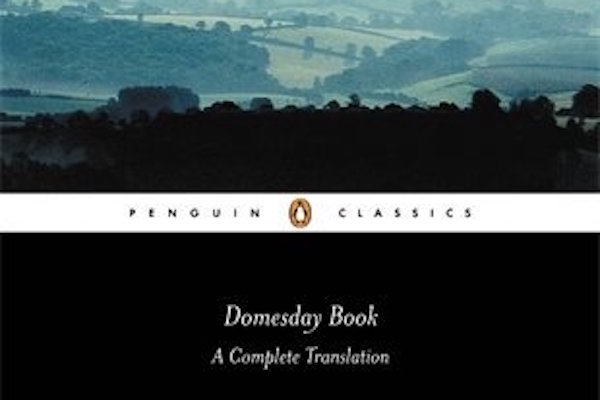
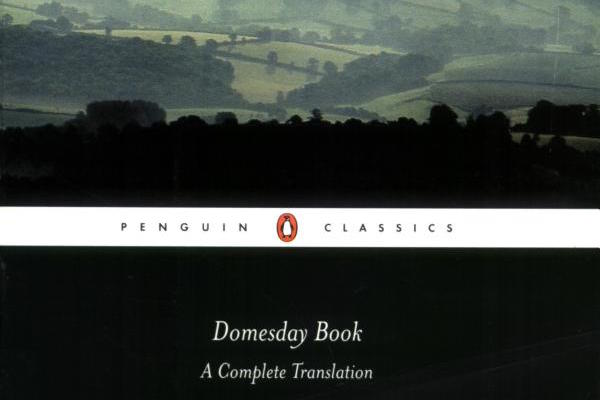
Changes to the promo image and css.

diff --git a/styles/domesday.css b/styles/domesday.css
@@ -51,7 +51,7 @@ html>body #domesday-wrapper #wrapper #banner img {*float:left;}
 #domesday-wrapper #wrapper #primary-content {padding-bottom:12px;}
 /*#domesday-wrapper #wrapper #primary-content ul {clear:left; float:none;  padding: 12px 0 0 11px; margin: 0 40px 20px 40px; }
 #domesday-wrapper #wrapper #primary-content ul li{float:none!important; list-style-position: outside; list-style-type: disc; padding: 12px 8px; width:auto!important;}*/
-#domesday-wrapper #wrapper #primary-content h2 {background:none; font:1.2em/120% Verdana, Arial, Helvetica, sans-serif normal; font-weight: 700; padding:8px 10px 8px 20px;  border-top:#bfbfbf 1px dotted; margin:0;  }
+#domesday-wrapper #wrapper #primary-content h2 {background:none; font:1.2em/120% Verdana, Arial, Helvetica, sans-serif normal; font-weight: normal; padding:8px 10px 8px 20px;  border-top:#bfbfbf 1px dotted; margin:0;  }
 #domesday-wrapper #wrapper #primary-content h2 {margin-top: 0!important; border: none!important; }
 
 /*#wrapper #main-content #left-nav .selected-page a {background-color: #900!important;}*/
@@ -113,7 +113,8 @@ h1 {
 }
 h2 {
     font-family: 'Bitter', serif;
-    font-size: 1.4em;
+    font-size: 1.6em;
+    font-weight: normal;
 }
 
 #primary-content #intro {
@@ -153,7 +154,6 @@ ul.last-item li {
     margin: 0 20px 20px 0;
 }
 #domesday-wrapper #secondary-content .holder .header-no-link {
-    background-color: #e5e5e5;
     padding-top: 1em;
     padding-bottom: 1em;
 }
@@ -169,6 +169,11 @@ ul.last-item li {
     padding-bottom: 1em;
     font-size: 1.1em;
     line-height: 1.6em;
+}
+
+#secondary-content .holder h2 {
+    background: none ;
+    font-weight: normal;
 }
 
 #primary-content .left, #primary-content li {

diff --git a/default.htm b/default.htm
@@ -175,7 +175,7 @@
                         <img src="img/domesday-%20the%20complete%20translation.jpg" alt="domesday-the-complete-translation"/>
                     </div>
                 </a>
-                <p>Buy a complete, authoritative<a href="http://bookshop.nationalarchives.gov.uk/9780141439945/Domesday-Book-%3A-A-Complete-Translation/"
+                <p>Buy a complete, authoritative <a href="http://bookshop.nationalarchives.gov.uk/9780141439945/Domesday-Book-%3A-A-Complete-Translation/"
                        target="_self">translation of Domesday</a>, including a glossary and index of places.</p>
             </div>
             <div class="holder">
